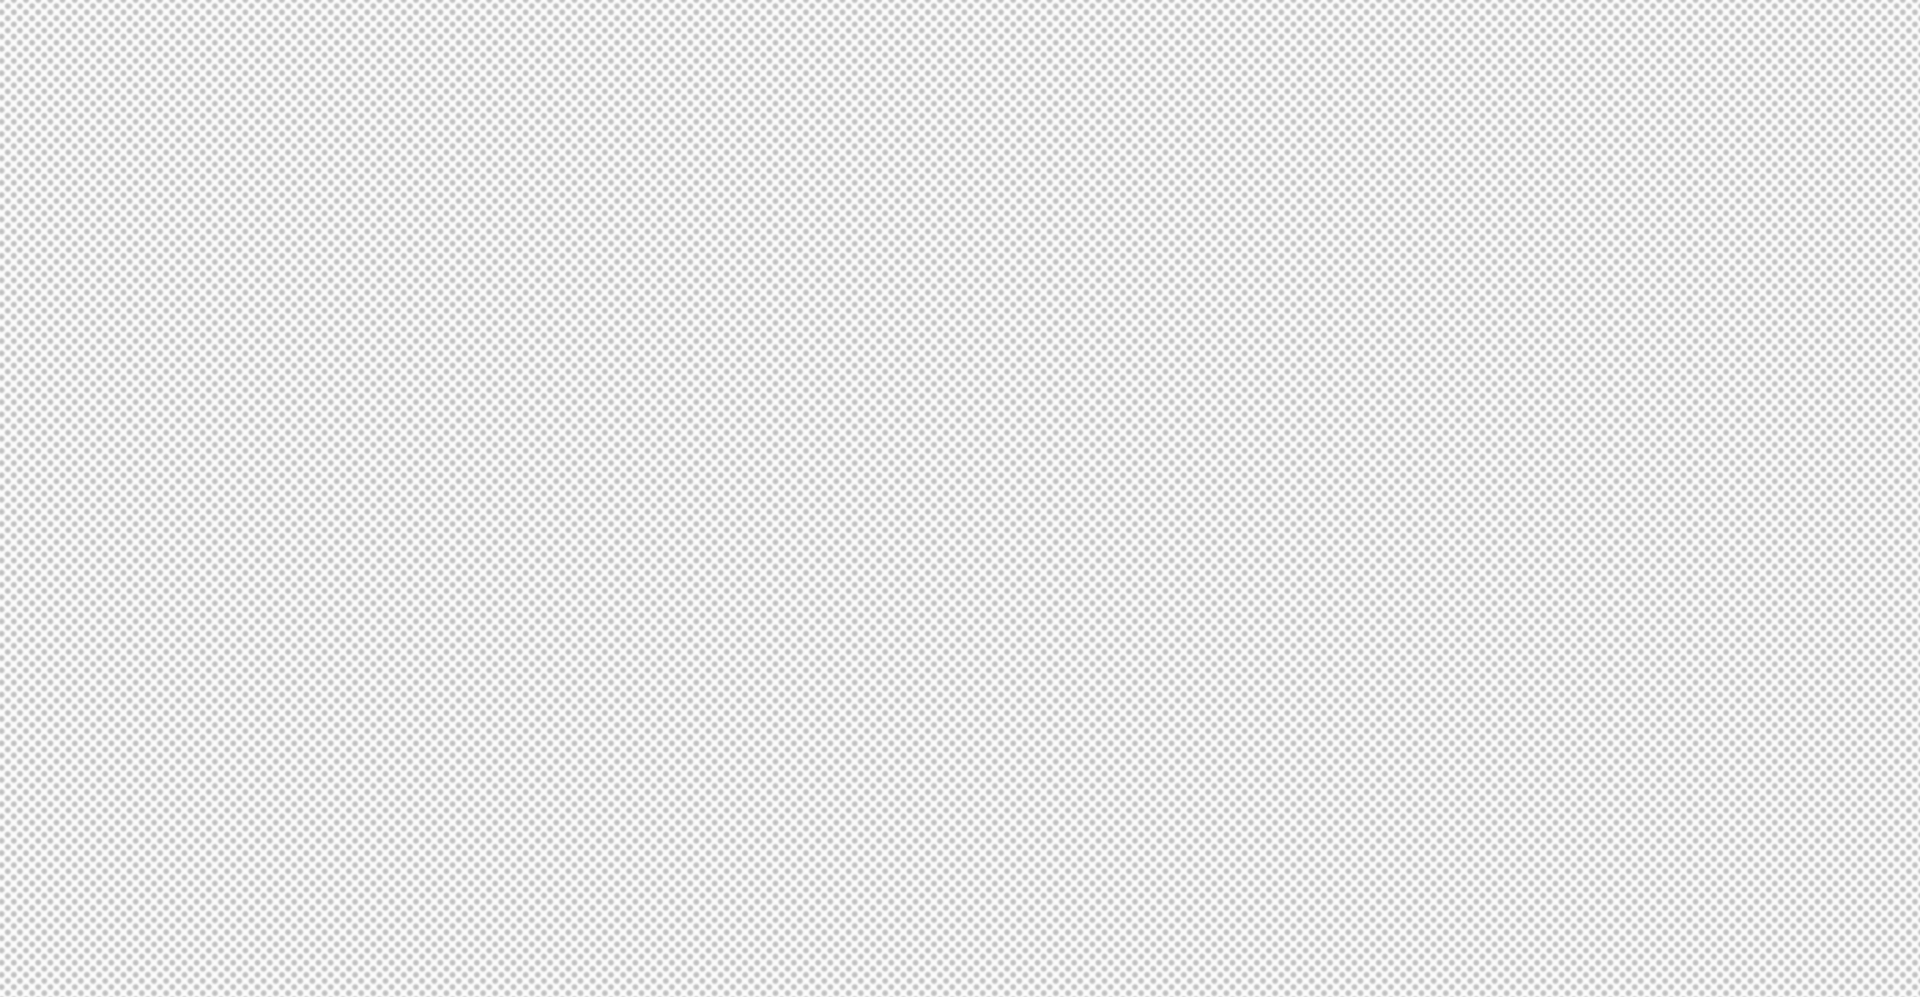
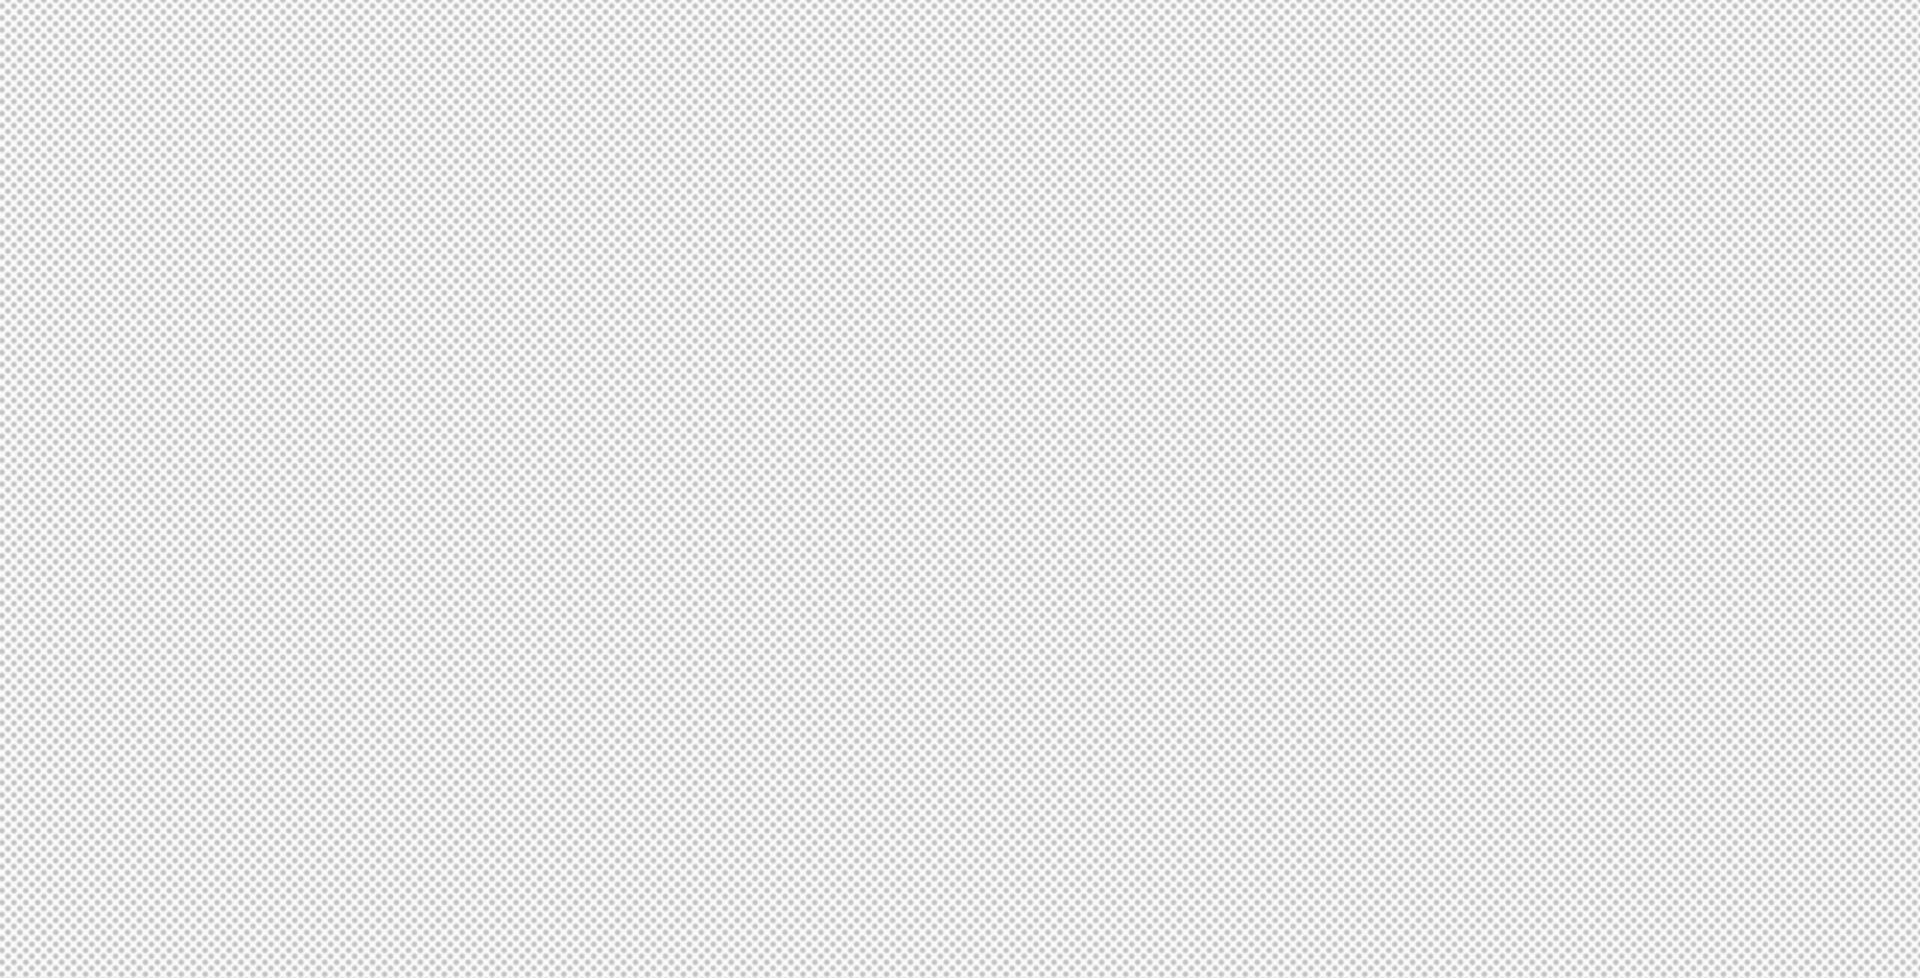
overlay for desktop & mobile

diff --git a/src/scss/Overlay.scss b/src/scss/Overlay.scss
@@ -1,11 +1,51 @@
-.overlay {
-  height: 1000px;
+.pattern-mobile {
+  background-repeat: repeat-y;
+  width: 100%;
+  height: 100vh;
+  background-size: cover;
+  position: fixed;
+  mix-blend-mode: overlay;
+  z-index: 20;
+  pointer-events: none;
 
   @media only screen and (max-width: 768px) {
+    background-image: url("../assets/img/pattern_mobile.png");
+  }
+}
+
+.pattern {
+  width: 100%;
+  height: 100%;
+  position: fixed;
+  opacity: 40%;
+  mix-blend-mode: overlay;
+  z-index: 12;
+  pointer-events: none;
+
+  @media only screen and (min-width: 769px) {
+    background-image: url("../assets/img/pattern.png");
+  }
+  @media only screen and (max-width: 768px) {
+    display: none;
+  }
+}
+
+.overlay {
+  height: 900px;
+  width: 100%;
+
+  @media only screen and (max-width: 768px) {
+    position: bottom;
     height: 100vh;
     background: url("../assets/img/banner/uvod-mob.webp") no-repeat center;
     background-size: cover;
   }
+
+  @media only screen and (max-width: 576px) {
+    height: 75vh;
+  }
+
+  
 
   .lay1 {
     width: 100%;

diff --git a/src/components/sections/Partners.js b/src/components/sections/Partners.js
@@ -8,15 +8,17 @@ const Partners = () => {
 
   return (
     <section id="partneri">
-      <SectionTitle title="Partneři" />
-      <FacultyList items={facultyList} />
-      <div className="w-full px-6 lg:px-0 my-16 flex flex-col items-center gap-y-16">
-        <Link linkTo={utb.link}>
-          <img className="w-96 h-auto" src={utb.pic} alt={utb.picAlt} loading="lazy" />
-        </Link>
-        <PartnerList items={unionList} />
+      <div className="relative z-30 bg-white">
+        <SectionTitle title="Partneři" />
+        <FacultyList items={facultyList} />
+        <div className="w-full px-6 lg:px-0 py-16 flex flex-col items-center gap-y-16">
+          <Link linkTo={utb.link}>
+            <img className="w-96 h-auto" src={utb.pic} alt={utb.picAlt} loading="lazy" />
+          </Link>
+          <PartnerList items={unionList} />
+          {/* <PartnerList items={partnerList} /> */}
+        </div>
       </div>
-      {/* <PartnerList items={partnerList} /> */}
     </section>
   )
 }

diff --git a/src/components/atoms/SectionTitle.js b/src/components/atoms/SectionTitle.js
@@ -2,7 +2,7 @@ const SectionTitle = ({ title, color = '#222B45' }) => {
   const colorRegex = new RegExp('^#([A-Fa-f0-9]{6}|[A-Fa-f0-9]{3})$')
 
   return (
-    <h2 className="py-16 px-4 text-2xl md:text-4xl xl:text-5xl uppercase font-bold" style={{color: `${colorRegex.test(color) ? color : '#222B45'}`}}>{title}</h2>
+    <h2 className="py-16 px-4 text-2xl md:text-4xl xl:text-5xl uppercase font-bold relative z-30" style={{color: `${colorRegex.test(color) ? color : '#222B45'}`}}>{title}</h2>
   )
 }
 

diff --git a/src/components/moleculs/SuSocials.js b/src/components/moleculs/SuSocials.js
@@ -3,7 +3,7 @@ import Link from '../atoms/Link'
 
 const SuSocials = ({ title, desc, fbLink, fbImg, igLink, igImg }) => {
   return (
-    <div className="socials text-center lg:text-left">
+    <div className="socials text-center lg:text-left relative z-30">
       <ContactTitle title={title} />
       <p className="mb-4">{desc}</p>
       <div className="img-links flex justify-center gap-x-6 lg:gap-x-0 lg:justify-between lg:max-w-xs mb-12">

diff --git a/src/components/sections/Aftermovie.js b/src/components/sections/Aftermovie.js
@@ -11,7 +11,7 @@ const Aftermovie = () => {
     <section id="aftermovie">
       { ytSources.map(ytSrc => (
         <iframe 
-          className="w-full" 
+          className="w-full relative z-30" 
           key={ytSrc}
           src={ytSrc}
           frameBorder="0" allow="accelerometer; autoplay; clipboard-write; encrypted-media; gyroscope; picture-in-picture" 

diff --git a/src/components/moleculs/ContactSocials.js b/src/components/moleculs/ContactSocials.js
@@ -4,7 +4,7 @@ import Link from '../atoms/Link'
 
 const ContactSocials = ({ title, desc, fbLink, fbImg, fbImgWebp, igLink, igImg, igImgWebp }) => {
   return (
-    <div className="socials lg:mt-auto">
+    <div className="socials lg:mt-auto relative z-30">
       <div className="text-center">
         <ContactTitle title={title} />
       </div>

diff --git a/src/components/sections/Overlay.js b/src/components/sections/Overlay.js
@@ -21,6 +21,8 @@ const Overlay = () => {
       <div className="lay6 moving-obj"></div>
       <div className="lay7 moving-obj"></div>
       <img className="moving-obj logo" src={logo} alt="seznamovak 2022 logo" />
+      <div className="pattern"></div>
+      <div className="pattern-mobile"></div>
     </div>
   )
 }

diff --git a/src/components/sections/Map.js b/src/components/sections/Map.js
@@ -2,7 +2,7 @@ const Map = ({ mapSrc = 'https://www.google.com/maps/embed?pb=!1m14!1m8!1m3!1d41
   return (
     <div id="mapa">
       <iframe
-        className="w-full h-96" 
+        className="w-full h-96 relative z-30" 
         src={mapSrc}
         frameBorder="0"
         title="mapa"

diff --git a/src/components/organisms/PartnerList.js b/src/components/organisms/PartnerList.js
@@ -3,7 +3,7 @@ import Link from '../atoms/Link'
 const PartnerList = ({ items }) => {
   return (
     <div className="partner-list">
-      {
+      { 
         items.map(item => (
           <div key={item.link}>
             <Link linkTo={item.link}>

diff --git a/src/scss/Instructors.scss b/src/scss/Instructors.scss
@@ -2,6 +2,10 @@
   background: url("./../assets/img/bg_instructors.webp") no-repeat center;
   background-size: cover;
 
+  .swiper {
+    z-index: 30;
+  }
+
   .swiper-slide {
     display: flex;
     flex-direction: column;
